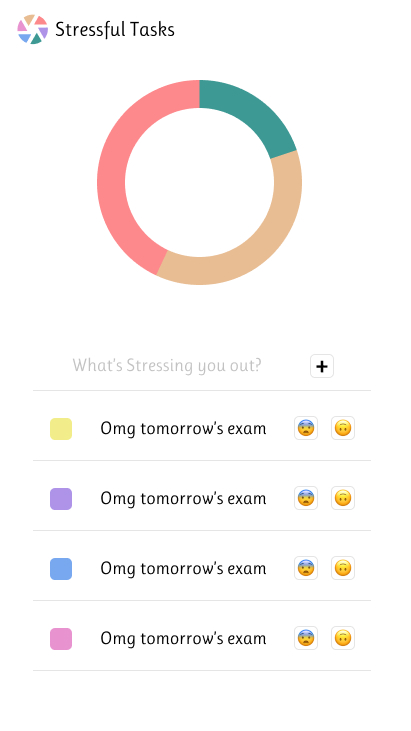
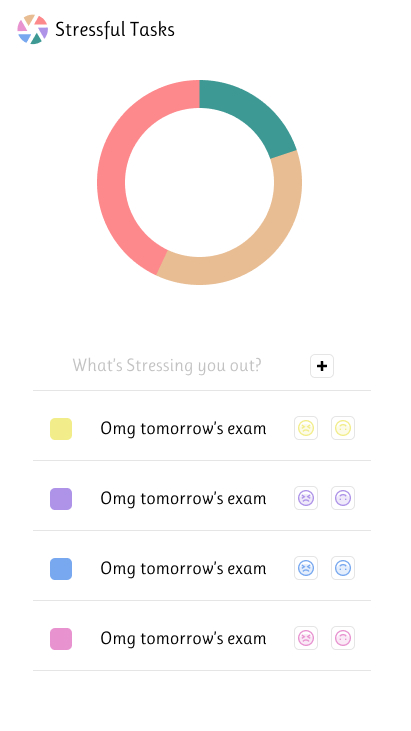
button design and style

diff --git a/App/src/app/pages/home/home.page.scss b/App/src/app/pages/home/home.page.scss
@@ -35,21 +35,19 @@
 .st-add {
     width: 81%; 
     margin: auto; 
-    border-bottom: 1px solid gray;
+    border-bottom: 1px solid #E5E5E5;
 
     .st-add__form {
-        width: 90%; 
+        width: 85%; 
         margin: auto; 
         display: flex;
         justify-content: space-between;
         align-items: center;
         align-content: center; 
+        color: #C2C2C2;
     }
 
     .st-add__input {
-    }
-
-    .st-add__addbutton {
     }
 }
 
@@ -63,24 +61,82 @@
         .st-tasks__task {
             width: 90%;
             margin: auto;
-            border-bottom: 1px solid gray; 
+            border-bottom: 1px solid #E5E5E5; 
 
             .st-tasks__taskcolour {
                 height: 20px;
                 width: 20px;
-                background-color: aqua;
                 border-radius: 5px;
+            }
+
+            .st-taskColour--red {
+                background-color: #FD898C;
+            }
+
+            .st-taskColour--orange {
+                background-color: #E8BD93;
+            }
+
+            .st-taskColour--green {
+                background-color: #3D9994;
+            }
+
+            .st-colorBg--yellow {
+                background-color: #F2EE8A;
+            }
+
+            .st-taskColour--purple {
+                background-color: #AE93E8;
+            }
+
+            .st-taskColour--blue {
+                background-color: #78A8EF;
+            }
+
+            .st-taskColour--pink {
+                background-color: #E893D0;
             }
 
             .st-tasks__tasktext {
                 padding: 15px;
             }
-
-            .st-tasks__taskbutton {
-                .st-tasks__taskbutton--stress {}
-
-                .st-tasks__taskbutton--fine {}
-            }
         }
+    }
+}
+
+.st-button {
+    border: 1px solid #E5E5E5; 
+    border-radius: 5px; 
+    background-color: white; 
+    width: 24px; 
+    height: 24px; 
+    margin: 5px; 
+    padding: 0px; 
+
+    .st-buttonBg {
+        width: 100%;
+        height: 100%; 
+    }
+
+    .st-buttonBg--stress {
+        -webkit-mask: url(./../../../assets/images/stress.svg) no-repeat 50% 50%;
+        mask: url(./../../../assets/images/stress.svg) no-repeat 50% 50%;
+        -webkit-mask-size: auto;
+        mask-size: auto;
+    }
+
+    .st-buttonBg--fine {
+        -webkit-mask: url(./../../../assets/images/fine.svg) no-repeat 50% 50%;
+        mask: url(./../../../assets/images/fine.svg) no-repeat 50% 50%;
+        -webkit-mask-size: auto;
+        mask-size: auto;
+    }
+
+    .st-buttonBg--add {
+        background-color: black;
+        -webkit-mask: url(./../../../assets/images/add.svg) no-repeat 50% 50%;
+        mask: url(./../../../assets/images/add.svg) no-repeat 50% 50%;
+        -webkit-mask-size: auto;
+        mask-size: auto;
     }
 }

diff --git a/App/src/app/pages/home/home.page.html b/App/src/app/pages/home/home.page.html
@@ -9,17 +9,17 @@
 <section class="st-add">
   <form class="st-add__form" [formGroup]="new_item_form" (submit)="createItem(new_item_form.value)">
     <ion-input class="st-add__input" type="text" formControlName="title" placeholder="What's stressing you out?" required></ion-input>
-    <button class="st-add__addbutton" type="submit" [disabled]="!new_item_form.valid">➕</button>
+    <button class="st-button" type="submit" [disabled]="!new_item_form.valid"><div class="st-buttonBg st-buttonBg--add"></div></button>
   </form>
 </section>
 
 <ion-content class="st-tasks">
   <ion-list class="st-tasks__list">
     <ion-item class="st-tasks__task" *ngFor="let item of items">
-      <div class="st-tasks__taskcolour"></div>
+      <div class="st-tasks__taskcolour st-taskColour--red"></div>
       <ion-label class="st-tasks__tasktext">{{ item.title }}</ion-label>
-      <button class="st-tasks__taskbutton--stress">😨</button>
-      <button class="st-tasks__taskbutton--fine">🙃</button>
+      <button class="st-button"><div class="st-buttonBg st-buttonBg--stress st-taskColour--red"></div></button>
+      <button class="st-button"><div class="st-buttonBg st-buttonBg--fine st-taskColour--red"></div></button>
     </ion-item>
   </ion-list>
 </ion-content>
